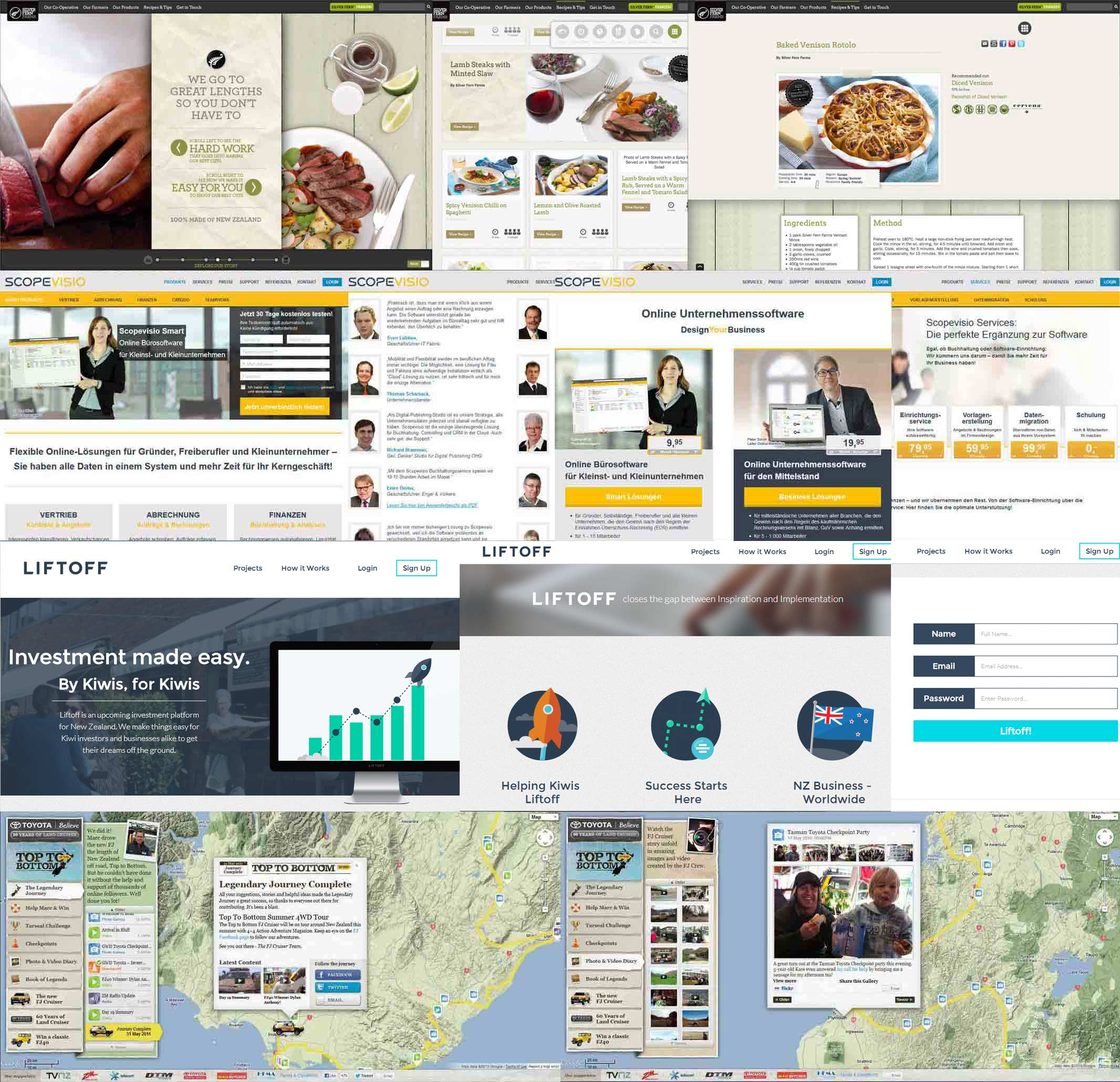
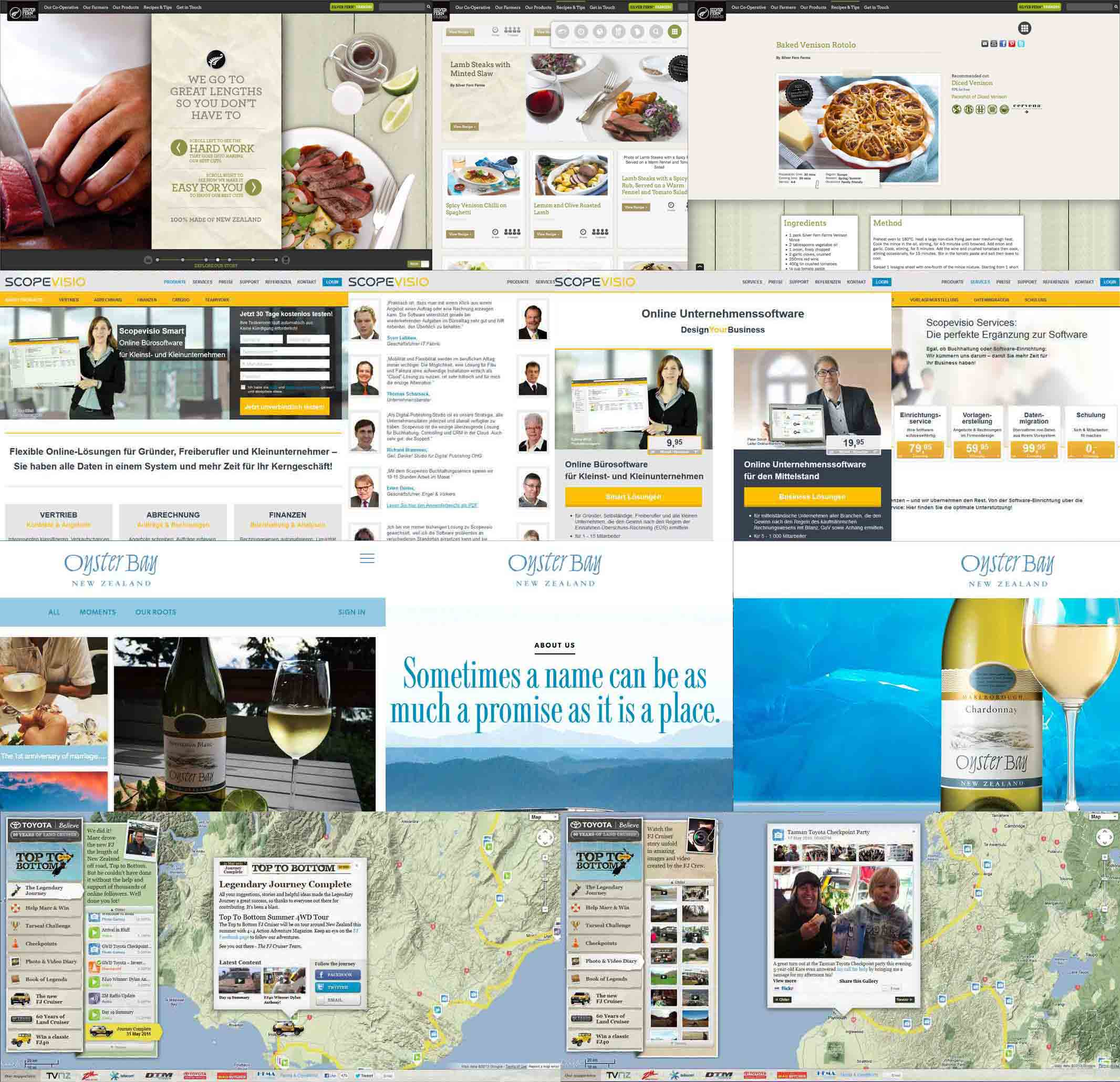
Change text on site boxes, add oysterbay bg, prevent redirect to www in htaccess

Changed region(s): [[0.0, 0.4971, 1.0, 0.7767]]

diff --git a/build/index.min.css b/build/index.min.css
@@ -1,1 +1,1 @@
-.clear{clear:both}.clearfix:after{content:".";height:0;clear:both;display:block;visibility:hidden}.hidden{display:none !important}.boldi{font-weight:bold;white-space:nowrap}html,body,div,img,h1,h2,h3,h4,h5,h6,p,ul,li{margin:0;padding:0;border:0}html,body{width:100%;height:100%}body{font:normal 16px/24px "Source Sans Pro",Helvetica,Arial,sans-serif;text-align:center;color:#515150;background:#EEE7D5}a{word-wrap:break-word;color:#14a1d0}a:focus,a:hover{outline:none}h1{font-size:30px;line-height:44px}h1 a{color:#14A1D0 !important;transition:all 0.5s ease;display:block}h1 a span{text-decoration:underline}h1 a span.big{font-size:38px;position:relative;top:4px;text-decoration:none;text-shadow:1px 1px #000}h1 a:hover{text-shadow:1px 1px #000}h2{font:normal 18px/48px "Reem Kufi";padding:0}h4{font-size:17px;color:#515150}ul,li{list-style:none}p{padding:7px 0;color:#515150}noscript{width:100%;height:20px;position:absolute;top:0;left:0;color:#E22900;text-align:center;padding-top:16px;font:bold 16px/16px "Source Sans Pro",Helvetica,Arial,sans-serif}noscript{font-size:16px;line-height:16px}.inner{width:920px;margin:0 auto;text-align:left;position:relative}.hgroup{float:left;padding:10px 0 0}.heading{font-size:18px}.article{position:relative;z-index:97;background:url(../images/bg-pattern.jpg) repeat center 0;border-top:1px solid #81c7e3;border-bottom:1px solid #81c7e3}.article.work{border-bottom:0}footer{height:100px;text-align:center;line-height:28px;font-size:12px;background:#ede7db url(../images/cloud-windmills.jpg) repeat-x center 100%}footer p{color:white}.header{width:100%;position:relative;top:0;left:0;background:#fff;opacity:0.95;z-index:99;border-bottom:1px solid #EEE7D5}.header .inner{width:850px}.home{background:#d9d9d7 url(../images/fern-leaf.jpg) no-repeat 0 100%;padding:12px 0;border-top:1px solid #81c7e3}.home-left{width:47%;float:left;padding-left:36px}.home-right{width:320px;float:right;min-height:303px;position:relative;right:54px;text-align:center}.home-right p.intro{color:#515150;font-family:"Reem Kufi";font-size:18px;position:relative;right:7px;z-index:5}.home-right p.intro span{display:none}.home-right #gat{opacity:0.333;width:316px;height:274px;position:absolute;top:39px;right:71px;z-index:3;background-position:center middle;background-repeat:no-repeat;transition:opacity 0.666s ease-in-out;-webkit-transition:opacity 0.666s ease-in-out;-moz-transition:opacity 0.666s ease-in-out;-o-transition:opacity 0.666s ease-in-out;-ms-transition:opacity 0.666s ease-in-out}.home-right #gat.active{opacity:0.333}.currentStatus{float:left;display:block;border-radius:7px;margin:20px 0 6px;padding:10px 0 12px;text-align:center !important;border:1px solid #cdcdcd;background:linear-gradient(135deg, #75cdf5, #fff)}.currentStatus h4{padding:0 10px;font-weight:400}h2.acronyms{width:320px;height:266px;display:block;position:absolute;top:36px;right:9px;z-index:5;font-family:"Reem Kufi"}h2.acronyms span{display:none;position:absolute;line-height:32px}.acronimg{width:100%;height:100%;position:absolute;top:0;left:0;display:block;opacity:0.0333;transition:opacity 0.123s ease-in-out;-webkit-transition:opacity 0.123s ease-in-out;-moz-transition:opacity 0.123s ease-in-out;-o-transition:opacity 0.123s ease-in-out;-ms-transition:opacity 0.123s ease-in-out;background-repeat:no-repeat;background-position:center middle;background-size:contain}.a0{top:72px;left:8px;font-size:32px;color:#297ED8}.a1{top:136px;left:66px;font-size:30px;color:#5196E0}.a2{top:62px;left:240px;font-size:31px;color:#258DD6}.a3{top:150px;left:226px;font-size:30px;color:#2399D4}.a4{top:236px;left:72px;font-size:30px;color:#21A0D3}.a5{top:235px;left:10px;font-size:25px;color:#20A6D2}.a6{top:115px;left:151px;font-size:28px;color:#2DABD4}.a7{top:184px;left:252px;font-size:25px;color:#3FB2D8}.a8{top:42px;left:153px;font-size:23px;color:#297ED8}.a9{top:132px;left:5px;font-size:24px;color:#5196E0}.a10{top:200px;left:138px;font-size:26px;color:#4978E2}.a11{top:34px;left:75px;font-size:26px;color:#5196E0}.a12{top:233px;left:158px;font-size:25px;color:#5197E0}.a13{top:3px;left:12px;font-size:24px;color:#20A6D2}.a14{top:70px;left:89px;font-size:24px;color:#4771E1}.a15{top:2px;left:245px;font-size:26px;color:#297ed8}.a16{top:202px;left:12px;font-size:18px;color:#5BBEDE}.a17{top:174px;left:59px;font-size:17px;color:#3FB2D8}.a18{top:101px;left:99px;font-size:22px;color:#5196E0}.a19{top:30px;left:216px;font-size:17px;color:#258DD6}.a20{top:120px;left:248px;font-size:21px;color:#3C45E4}.a21{top:0px;left:88px;font-size:22px;color:#5196E0}.a22{top:36px;left:24px;font-size:20px;color:#4771E1}.a23{top:204px;left:74px;font-size:20px;color:#3C45E4}.a24{top:104px;left:34px;font-size:20px;color:#21A0D3}.a25{top:170px;left:118px;font-size:16px;color:#3C45E4}.a26{top:207px;left:222px;font-size:21px;color:#5BBEDE}.a27{top:166px;left:20px;font-size:19px;color:#3C45E4}.a28{top:148px;left:175px;font-size:32px;color:#2DABD4}.a29{top:4px;left:174px;font-size:27px;color:#2399D4}.a30{top:80px;left:158px;font-size:22px;color:#297ED8}.a31{top:234px;left:252px;font-size:26px;color:#21A0D3}.a32{top:177px;left:201px;font-size:17px;color:#20A6D2}.a33{top:94px;left:224px;font-size:17px;color:#3D49E4}.about{padding:12px 0;background:linear-gradient(135deg, #75cdf5, #fff);border-bottom:0}.about .inner{z-index:99;width:844px}.about h3{padding:10px 0}.about p{width:88%;float:left}.about p.about-title{font-weight:bold;font-style:italic}.about .open p{visibility:visible}.about-bg{width:100%;height:100%;position:absolute;top:0;left:0;background:none;opacity:0.5;display:block}.work{background:#999 url(../images/feather.jpg) no-repeat right top;color:#000;overflow:hidden;z-index:93;padding:16px 0 0;position:relative;z-index:97}.work .inner{z-index:95;text-align:center}.work .inner p{color:white;padding:6px 0 0}.work .inner p.selection{text-align:center;font-family:"Reem Kufi";font-size:20px;text-shadow:1px 1px #515150}.work #siteinfo{font:normal 16px/24px "Reem Kufi";display:block;padding:0 36px;text-align:justify}.work #siteinfo a{color:white;font-style:italic}.work #siteinfo a:hover{color:#515150}strong .work #siteinfo a{font-size:17px}.work ul{color:white;display:block;margin:24px auto 0;font-family:"Reem Kufi"}.work ul li{margin:0;padding:0;width:25%;display:block;float:left;text-align:center;line-height:30px}.work ul li .box{-webkit-border-radius:6px;-moz-border-radius:6px;-ms-border-radius:6px;border-radius:6px;width:169px;height:133px;position:relative;cursor:pointer;overflow:hidden;margin:0 auto 43px;border:1px solid #666}.work ul li .text{text-shadow:1px 1px 1px 1px #000;position:absolute;display:block;top:0;left:0;width:100%;height:100%;z-index:77;line-height:30px;font-size:18px;font-weight:bold}.work ul li .text h3,.work ul li .text h4,.work ul li .text h5{color:white;padding-top:10px;line-height:30px;transition:opacity 0.333s ease-in-out;-webkit-transition:opacity 0.333s ease-in-out;-moz-transition:opacity 0.333s ease-in-out;-o-transition:opacity 0.333s ease-in-out;-ms-transition:opacity 0.333s ease-in-out}.work ul li .text h3{font-size:18px}.work ul li .text h4{font-size:15px;font-style:italic}.work ul li .text h5{font-size:14px}.work ul li span{position:absolute;display:block;top:0;left:0;width:100%;height:100%;-webkit-border-radius:6px;-moz-border-radius:6px;-ms-border-radius:6px;border-radius:6px}.work ul li .layer{background:#333;z-index:44;opacity:0.82}.work ul li .img{z-index:33;background-image:url(../images/thumbs-169x133.jpg)}.work ul li .button{background:url(../images/play.png) no-repeat center;z-index:39}.work ul li .bg1{background:url(../images/diag-left.png) no-repeat 0 0;z-index:55}.work ul li .bg2{background:url(../images/diag-right.png) no-repeat 0 0;z-index:55}.work ul li .info{display:none;font-size:55px}.work ul li.over h3,.work ul li.over h4,.work ul li.over h5{opacity:0}.work ul li.active .img{opacity:0.5}.work ul li.active .button{background:url(../images/pause.png) no-repeat center;opacity:0.55}.work ul li.active.over .button{opacity:1}.work ul li.active.paused .button{background:url(../images/play.png) no-repeat center;z-index:39}.work ul li.active h3,.work ul li.active h4{opacity:0}.work ul li.site4,.work ul li.site8,.work ul li.site12{margin-right:0}.work ul li.sff .img{background-position:0 0}.work ul li.scopevisio .img{background-position:-169px 0}.work ul li.liftoff .img{background-position:-338px 0}.work ul li.toptobottom .img{background-position:-507px 0}.work ul li.coats .img{background-position:-676px 0}.work ul li.mc .img{background-position:-845px 0px}.work ul li.nzso .img{background-position:0 -133px}.work ul li.hito .img{background-position:-169px -133px}.work ul li.roche .img{background-position:-338px -133px}.work ul li.dryitonline .img{background-position:-507px -133px}.work ul li.ffs .img{background-position:-676px -133px}.work ul li.stoptober .img{background-position:-845px -133px}#sitebg{width:1000%;height:100%;overflow:hidden;position:absolute;top:0;left:0;background:url(../images/websites1y515.jpg) repeat center 0;opacity:0.07;z-index:94;display:block}#sitebg.roche-bg{background-image:url(../images/websites2y515.jpg);background-position:left -1030px}#sitebg.ffs-bg{background-image:url(../images/websites3y515.jpg);background-position:left -515px}#sitebg.stoptober-bg{background-image:url(../images/websites3y515.jpg);background-position:center -1545px}#sitebg.mc-bg{background-image:url(../images/websites3y515.jpg);background-position:center -1030px}#sitebg.coats-bg{background-image:url(../images/websites3y515.jpg);background-position:left 0}#sitebg.liftoff-bg{background-image:url(../images/websites1y515.jpg);background-position:center -1030px}#sitebg.sff-bg{background-image:url(../images/websites1y515.jpg);background-position:center 0}#sitebg.scopevisio-bg{background-image:url(../images/websites1y515.jpg);background-position:left -515px}#sitebg.nzso-bg{background-image:url(../images/websites2y515.jpg);background-position:left 0}#sitebg.toptobottom-bg{background-image:url(../images/websites1y515.jpg);background-position:center -1545px}#sitebg.hito-bg{background-image:url(../images/websites2y515.jpg);background-position:center -515px}#sitebg.dryitonline-bg{background-image:url(../images/websites2y515.jpg);background-position:left -1545px}.contact .inner{padding:10px 0 20px}.contact aside{position:relative;z-index:111;width:38%;float:right;text-align:center}.contact aside a{width:61px;height:60px;display:inline-block;background:url(../images/gt-icons.png) no-repeat 0 -16px;margin:3px 3px 0 9px}.contact aside a.pdf{background-position:0 -76px}.contact label{padding-right:9px;font-weight:bold;display:inline-block;line-height:24px;width:112px;text-align:right}.contact ul{position:relative;z-index:99}.contact ul li{padding:10px 0;font-size:14px;position:relative}.contact ul li a{padding-left:20px;color:#14a1d0}.contact ul li span{cursor:pointer;color:#009EE3;text-decoration:underline;line-height:24px}.contact ul li em{display:none;line-height:24px;display:inline-block}.contact ul li.con-so label,.contact ul li.con-so ul{float:left;display:block}.contact ul li.link{padding:0 0 6px 6px}.contact ul li.link a:before{width:16px;height:16px;display:block;position:absolute;content:" ";left:0;top:6px;background:url(../images/gt-icons.png) no-repeat 0 0}.contact ul li.link.linkedin a:before{background-position:-16px 0}.contact ul li.link.github a:before{background-position:-32px 0}.contact ul li.link.stackoverflow a:before{background-position:-48px 0}.contact ul li ul{display:inline-block}.contact ul.deats label{font-family:"Reem Kufi"}.contact .download{width:158px;margin:0 auto;text-align:left}.contact .download .heading{font-family:"Reem Kufi";text-align:center}.contact .contact-bg{width:195px;height:160px;position:absolute;bottom:0;right:5%;opacity:0.3;z-index:98}.nav-wrapper{width:45%;float:right;text-align:center}.nav-wrapper nav{padding:63px 0 0;margin:0 auto 7px;width:300px}.nav-wrapper nav ul{width:300px}.nav-wrapper nav ul li{float:left;display:block;text-transform:uppercase;text-align:center}.nav-wrapper nav ul li a{color:#5a782a;text-decoration:none;cursor:pointer;font:normal 16px/18px "Reem Kufi"}.nav-wrapper nav ul li a:hover{color:#737372;border-bottom:2px solid #737372}.nav-wrapper nav ul li#nav-home{width:68px}.nav-wrapper nav ul li#nav-about{width:74px}.nav-wrapper nav ul li#nav-work{width:68px}.nav-wrapper nav ul li#nav-contact{width:90px}.nav-home #nav-home a,.nav-about #nav-about a,.nav-work #nav-work a,.nav-contact #nav-contact a{color:#14a1d0;border-bottom:2px solid #14a1d0}#nav-slider{width:287px;position:relative}.ui-slider-handle{width:12px;height:21px;position:absolute;top:-20px;background:url(../images/slider.png) no-repeat 0 0;outline:0}@media screen and (max-width: 980px){.inner,fieldset.currentStatus,.home-left{width:100%;float:none;box-sizing:border-box}.inner{padding:0 2.5%;width:100% !important}.nav-wrapper{width:55%}.home-left{width:46%;padding-left:3px}.download{text-align:left}.work ul li{width:33.333%}.contact .inner{padding:10px 2.5% 20px}}@media screen and (max-width: 768px){.header h2{padding-left:0}.header .inner{padding:0}.header .nav-wrapper{width:100%}.header .nav-wrapper nav{padding:12px 0 0;margin-bottom:12px}.inner{text-align:center;padding:0 10px}.hgroup{padding:3px 0 0;float:none}.home{margin:0}.home .inner{padding:0}.home-right{float:none;margin:0 auto;right:0}.home-right p.intro{font-size:16px;padding-top:0}.home-right h2.acronyms{right:0}.home-left{padding:0 12px;width:100%}.work ul li{width:50%}.work #siteinfo{padding:0 12px}.about p{width:100%}.contact aside{float:none;width:100%;right:0}.contact .download{text-align:center;padding-bottom:10px}.contact .download .heading{padding-left:0}.contact ul li{padding:7px 0 !important;text-align:center;line-height:16px;font-size:13px}.contact ul li label{font-size:15px;line-height:17px;padding-right:0;display:block;width:100%;text-align:center}.contact ul li a{padding-left:0}.contact ul li.con-so label,.contact ul li.con-so ul{float:none}.contact ul li.con-so label{padding-bottom:6px}.contact ul li.link{padding-left:0}.contact ul li.link a:before{position:relative;margin:0 auto;top:-4px}.contact ul.deats li span{font-size:15px}.contact .contact-bg{right:0}.sticky-header .header{position:fixed;height:66px}.sticky-header .header h1,.sticky-header .header h2{display:none}.sticky-header .header .nav-wrapper{float:none;background:#fff;height:50px}.sticky-header .header .nav-wrapper nav{margin:15px auto 0;padding:12px 0 0}.sticky-header .home{padding-top:155px}}@media screen and (max-width: 480px){.currentStatus .boldi{text-align:center;padding-right:5px}.home{padding-top:6px}.home-right h2.acronyms{top:30px}.work ul li{width:100%}.work ul li.over h3,.work ul li.over h4,.work ul li.over h5{opacity:0}.work .inner p.selection{font-size:17px}}
+.clear{clear:both}.clearfix:after{content:".";height:0;clear:both;display:block;visibility:hidden}.hidden{display:none !important}.boldi{font-weight:bold;white-space:nowrap}html,body,div,img,h1,h2,h3,h4,h5,h6,p,ul,li{margin:0;padding:0;border:0}html,body{width:100%;height:100%}body{font:normal 16px/24px "Source Sans Pro",Helvetica,Arial,sans-serif;text-align:center;color:#515150;background:#EEE7D5}a{word-wrap:break-word;color:#14a1d0}a:focus,a:hover{outline:none}h1{font-size:30px;line-height:44px}h1 a{color:#14A1D0 !important;transition:all 0.5s ease;display:block}h1 a span{text-decoration:underline}h1 a span.big{font-size:38px;position:relative;top:4px;text-decoration:none;text-shadow:1px 1px #000}h1 a:hover{text-shadow:1px 1px #000}h2{font:normal 18px/48px "Reem Kufi";padding:0}h4{font-size:17px;color:#515150}ul,li{list-style:none}p{padding:7px 0;color:#515150}noscript{width:100%;height:20px;position:absolute;top:0;left:0;color:#E22900;text-align:center;padding-top:16px;font:bold 16px/16px "Source Sans Pro",Helvetica,Arial,sans-serif}noscript{font-size:16px;line-height:16px}.inner{width:920px;margin:0 auto;text-align:left;position:relative}.hgroup{float:left;padding:10px 0 0}.heading{font-size:18px}.article{position:relative;z-index:97;background:url(../images/bg-pattern.jpg) repeat center 0;border-top:1px solid #81c7e3;border-bottom:1px solid #81c7e3}.article.work{border-bottom:0}footer{height:100px;text-align:center;line-height:28px;font-size:12px;background:#ede7db url(../images/cloud-windmills.jpg) repeat-x center 100%}footer p{color:white}.header{width:100%;position:relative;top:0;left:0;background:#fff;opacity:0.95;z-index:99;border-bottom:1px solid #EEE7D5}.header .inner{width:850px}.home{background:#d9d9d7 url(../images/fern-leaf.jpg) no-repeat 0 100%;padding:12px 0;border-top:1px solid #81c7e3}.home-left{width:47%;float:left;padding-left:36px}.home-right{width:320px;float:right;min-height:303px;position:relative;right:54px;text-align:center}.home-right p.intro{color:#515150;font-family:"Reem Kufi";font-size:18px;position:relative;right:7px;z-index:5}.home-right p.intro span{display:none}.home-right #gat{opacity:0.333;width:316px;height:274px;position:absolute;top:39px;right:71px;z-index:3;background-position:center middle;background-repeat:no-repeat;transition:opacity 0.666s ease-in-out;-webkit-transition:opacity 0.666s ease-in-out;-moz-transition:opacity 0.666s ease-in-out;-o-transition:opacity 0.666s ease-in-out;-ms-transition:opacity 0.666s ease-in-out}.home-right #gat.active{opacity:0.333}.currentStatus{float:left;display:block;border-radius:7px;margin:20px 0 6px;padding:10px 0 12px;text-align:center !important;border:1px solid #cdcdcd;background:linear-gradient(135deg, #75cdf5, #fff)}.currentStatus h4{padding:0 10px;font-weight:400}h2.acronyms{width:320px;height:266px;display:block;position:absolute;top:36px;right:9px;z-index:5;font-family:"Reem Kufi"}h2.acronyms span{display:none;position:absolute;line-height:32px}.acronimg{width:100%;height:100%;position:absolute;top:0;left:0;display:block;opacity:0.0333;transition:opacity 0.123s ease-in-out;-webkit-transition:opacity 0.123s ease-in-out;-moz-transition:opacity 0.123s ease-in-out;-o-transition:opacity 0.123s ease-in-out;-ms-transition:opacity 0.123s ease-in-out;background-repeat:no-repeat;background-position:center middle;background-size:contain}.a0{top:72px;left:8px;font-size:32px;color:#297ED8}.a1{top:136px;left:66px;font-size:30px;color:#5196E0}.a2{top:62px;left:240px;font-size:31px;color:#258DD6}.a3{top:150px;left:226px;font-size:30px;color:#2399D4}.a4{top:236px;left:72px;font-size:30px;color:#21A0D3}.a5{top:235px;left:10px;font-size:25px;color:#20A6D2}.a6{top:115px;left:151px;font-size:28px;color:#2DABD4}.a7{top:184px;left:252px;font-size:25px;color:#3FB2D8}.a8{top:42px;left:153px;font-size:23px;color:#297ED8}.a9{top:132px;left:5px;font-size:24px;color:#5196E0}.a10{top:200px;left:138px;font-size:26px;color:#4978E2}.a11{top:34px;left:75px;font-size:26px;color:#5196E0}.a12{top:233px;left:158px;font-size:25px;color:#5197E0}.a13{top:3px;left:12px;font-size:24px;color:#20A6D2}.a14{top:70px;left:89px;font-size:24px;color:#4771E1}.a15{top:2px;left:245px;font-size:26px;color:#297ed8}.a16{top:202px;left:12px;font-size:18px;color:#5BBEDE}.a17{top:174px;left:59px;font-size:17px;color:#3FB2D8}.a18{top:101px;left:99px;font-size:22px;color:#5196E0}.a19{top:30px;left:216px;font-size:17px;color:#258DD6}.a20{top:120px;left:248px;font-size:21px;color:#3C45E4}.a21{top:0px;left:88px;font-size:22px;color:#5196E0}.a22{top:36px;left:24px;font-size:20px;color:#4771E1}.a23{top:204px;left:74px;font-size:20px;color:#3C45E4}.a24{top:104px;left:34px;font-size:20px;color:#21A0D3}.a25{top:170px;left:118px;font-size:16px;color:#3C45E4}.a26{top:207px;left:222px;font-size:21px;color:#5BBEDE}.a27{top:166px;left:20px;font-size:19px;color:#3C45E4}.a28{top:148px;left:175px;font-size:32px;color:#2DABD4}.a29{top:4px;left:174px;font-size:27px;color:#2399D4}.a30{top:80px;left:158px;font-size:22px;color:#297ED8}.a31{top:234px;left:252px;font-size:26px;color:#21A0D3}.a32{top:177px;left:201px;font-size:17px;color:#20A6D2}.a33{top:94px;left:224px;font-size:17px;color:#3D49E4}.about{padding:12px 0;background:linear-gradient(135deg, #75cdf5, #fff);border-bottom:0}.about .inner{z-index:99;width:844px}.about h3{padding:10px 0}.about p{width:88%;float:left}.about p.about-title{font-weight:bold;font-style:italic}.about .open p{visibility:visible}.about-bg{width:100%;height:100%;position:absolute;top:0;left:0;background:none;opacity:0.5;display:block}.work{background:#999 url(../images/feather.jpg) no-repeat right top;color:#000;overflow:hidden;z-index:93;padding:16px 0 0;position:relative;z-index:97}.work .inner{z-index:95;text-align:center}.work .inner p{color:white;padding:6px 0 0}.work .inner p.selection{text-align:center;font-family:"Reem Kufi";font-size:20px;text-shadow:1px 1px #515150}.work .inner p:last-child{padding-bottom:6px}.work #siteinfo{font:normal 16px/24px "Reem Kufi";display:block;padding:0 36px;text-align:justify}.work #siteinfo a{color:white;font-style:italic}.work #siteinfo a:hover{color:#515150}strong .work #siteinfo a{font-size:17px}.work ul{color:white;display:block;margin:24px auto 0;font-family:"Reem Kufi"}.work ul li{margin:0;padding:0;width:25%;display:block;float:left;text-align:center;line-height:30px}.work ul li .box{-webkit-border-radius:6px;-moz-border-radius:6px;-ms-border-radius:6px;border-radius:6px;width:169px;height:133px;position:relative;cursor:pointer;overflow:hidden;margin:0 auto 43px;border:1px solid #666}.work ul li .text{text-shadow:1px 1px 1px 1px #000;position:absolute;display:block;top:0;left:0;width:100%;height:100%;z-index:77;line-height:30px;font-size:18px;font-weight:bold}.work ul li .text h3,.work ul li .text h4,.work ul li .text h5{color:white;padding-top:10px;line-height:30px;transition:opacity 0.333s ease-in-out;-webkit-transition:opacity 0.333s ease-in-out;-moz-transition:opacity 0.333s ease-in-out;-o-transition:opacity 0.333s ease-in-out;-ms-transition:opacity 0.333s ease-in-out}.work ul li .text h3{font-size:18px}.work ul li .text h4{font-size:15px;font-style:italic}.work ul li .text h5{font-size:14px}.work ul li span{position:absolute;display:block;top:0;left:0;width:100%;height:100%;-webkit-border-radius:6px;-moz-border-radius:6px;-ms-border-radius:6px;border-radius:6px}.work ul li .layer{background:#333;z-index:44;opacity:0.82}.work ul li .img{z-index:33;background-image:url(../images/thumbs-169x133.jpg)}.work ul li .button{background:url(../images/play.png) no-repeat center;z-index:39}.work ul li .bg1{background:url(../images/diag-left.png) no-repeat 0 0;z-index:55}.work ul li .bg2{background:url(../images/diag-right.png) no-repeat 0 0;z-index:55}.work ul li .info{display:none;font-size:55px}.work ul li.over h3,.work ul li.over h4,.work ul li.over h5{opacity:0}.work ul li.active .img{opacity:0.5}.work ul li.active .button{background:url(../images/pause.png) no-repeat center;opacity:0.55}.work ul li.active.over .button{opacity:1}.work ul li.active.paused .button{background:url(../images/play.png) no-repeat center;z-index:39}.work ul li.active h3,.work ul li.active h4{opacity:0}.work ul li.site4,.work ul li.site8,.work ul li.site12{margin-right:0}.work ul li.sff .img{background-position:0 0}.work ul li.scopevisio .img{background-position:-169px 0}.work ul li.liftoff .img{background-position:-338px 0}.work ul li.toptobottom .img{background-position:-507px 0}.work ul li.coats .img{background-position:-676px 0}.work ul li.mc .img{background-position:-845px 0px}.work ul li.nzso .img{background-position:0 -133px}.work ul li.hito .img{background-position:-169px -133px}.work ul li.roche .img{background-position:-338px -133px}.work ul li.dryitonline .img{background-position:-507px -133px}.work ul li.ffs .img{background-position:-676px -133px}.work ul li.stoptober .img{background-position:-845px -133px}#sitebg{width:1000%;height:100%;overflow:hidden;position:absolute;top:0;left:0;background:url(../images/websites1y515.jpg) repeat center 0;opacity:0.07;z-index:94;display:block}#sitebg.roche-bg{background-image:url(../images/websites2y515.jpg);background-position:left -1030px}#sitebg.ffs-bg{background-image:url(../images/websites3y515.jpg);background-position:left -515px}#sitebg.stoptober-bg{background-image:url(../images/websites3y515.jpg);background-position:center -1545px}#sitebg.mc-bg{background-image:url(../images/websites3y515.jpg);background-position:center -1030px}#sitebg.coats-bg{background-image:url(../images/websites3y515.jpg);background-position:left 0}#sitebg.oysterbay-bg{background-image:url(../images/websites1y515.jpg);background-position:center -1030px}#sitebg.sff-bg{background-image:url(../images/websites1y515.jpg);background-position:center 0}#sitebg.scopevisio-bg{background-image:url(../images/websites1y515.jpg);background-position:left -515px}#sitebg.nzso-bg{background-image:url(../images/websites2y515.jpg);background-position:left 0}#sitebg.toptobottom-bg{background-image:url(../images/websites1y515.jpg);background-position:center -1545px}#sitebg.hito-bg{background-image:url(../images/websites2y515.jpg);background-position:center -515px}#sitebg.dryitonline-bg{background-image:url(../images/websites2y515.jpg);background-position:left -1545px}.contact .inner{padding:10px 0 20px}.contact aside{position:relative;z-index:111;width:38%;float:right;text-align:center}.contact aside a{width:61px;height:60px;display:inline-block;background:url(../images/gt-icons.png) no-repeat 0 -16px;margin:3px 3px 0 9px}.contact aside a.pdf{background-position:0 -76px}.contact label{padding-right:9px;font-weight:bold;display:inline-block;line-height:24px;width:112px;text-align:right}.contact ul{position:relative;z-index:99}.contact ul li{padding:10px 0;font-size:14px;position:relative}.contact ul li a{padding-left:20px;color:#14a1d0}.contact ul li span{cursor:pointer;color:#009EE3;text-decoration:underline;line-height:24px}.contact ul li em{display:none;line-height:24px;display:inline-block}.contact ul li.con-so label,.contact ul li.con-so ul{float:left;display:block}.contact ul li.link{padding:0 0 6px 6px}.contact ul li.link a:before{width:16px;height:16px;display:block;position:absolute;content:" ";left:0;top:6px;background:url(../images/gt-icons.png) no-repeat 0 0}.contact ul li.link.linkedin a:before{background-position:-16px 0}.contact ul li.link.github a:before{background-position:-32px 0}.contact ul li.link.stackoverflow a:before{background-position:-48px 0}.contact ul li ul{display:inline-block}.contact ul.deats label{font-family:"Reem Kufi"}.contact .download{width:158px;margin:0 auto;text-align:left}.contact .download .heading{font-family:"Reem Kufi";text-align:center}.contact .contact-bg{width:195px;height:160px;position:absolute;bottom:0;right:5%;opacity:0.3;z-index:98}.nav-wrapper{width:45%;float:right;text-align:center}.nav-wrapper nav{padding:63px 0 0;margin:0 auto 7px;width:300px}.nav-wrapper nav ul{width:300px}.nav-wrapper nav ul li{float:left;display:block;text-transform:uppercase;text-align:center}.nav-wrapper nav ul li a{color:#5a782a;text-decoration:none;cursor:pointer;font:normal 16px/18px "Reem Kufi"}.nav-wrapper nav ul li a:hover{color:#737372;border-bottom:2px solid #737372}.nav-wrapper nav ul li#nav-home{width:68px}.nav-wrapper nav ul li#nav-about{width:74px}.nav-wrapper nav ul li#nav-work{width:68px}.nav-wrapper nav ul li#nav-contact{width:90px}.nav-home #nav-home a,.nav-about #nav-about a,.nav-work #nav-work a,.nav-contact #nav-contact a{color:#14a1d0;border-bottom:2px solid #14a1d0}#nav-slider{width:287px;position:relative}.ui-slider-handle{width:12px;height:21px;position:absolute;top:-20px;background:url(../images/slider.png) no-repeat 0 0;outline:0}@media screen and (max-width: 980px){.inner,fieldset.currentStatus,.home-left{width:100%;float:none;box-sizing:border-box}.inner{padding:0 2.5%;width:100% !important}.nav-wrapper{width:55%}.home-left{width:46%;padding-left:3px}.download{text-align:left}.work ul li{width:33.333%}.contact .inner{padding:10px 2.5% 20px}}@media screen and (max-width: 768px){.header h2{padding-left:0}.header .inner{padding:0}.header .nav-wrapper{width:100%}.header .nav-wrapper nav{padding:12px 0 0;margin-bottom:12px}.inner{text-align:center;padding:0 10px}.hgroup{padding:3px 0 0;float:none}.home{margin:0}.home .inner{padding:0}.home-right{float:none;margin:0 auto;right:0}.home-right p.intro{font-size:16px;padding-top:0}.home-right h2.acronyms{right:0}.home-left{padding:0 12px;width:100%}.work ul li{width:50%}.work #siteinfo{padding:0 12px}.about p{width:100%}.contact aside{float:none;width:100%;right:0}.contact .download{text-align:center;padding-bottom:10px}.contact .download .heading{padding-left:0}.contact ul li{padding:7px 0 !important;text-align:center;line-height:16px;font-size:13px}.contact ul li label{font-size:15px;line-height:17px;padding-right:0;display:block;width:100%;text-align:center}.contact ul li a{padding-left:0}.contact ul li.con-so label,.contact ul li.con-so ul{float:none}.contact ul li.con-so label{padding-bottom:6px}.contact ul li.link{padding-left:0}.contact ul li.link a:before{position:relative;margin:0 auto;top:-4px}.contact ul.deats li span{font-size:15px}.contact .contact-bg{right:0}.sticky-header .header{position:fixed;height:66px}.sticky-header .header h1,.sticky-header .header h2{display:none}.sticky-header .header .nav-wrapper{float:none;background:#fff;height:50px}.sticky-header .header .nav-wrapper nav{margin:15px auto 0;padding:12px 0 0}.sticky-header .home{padding-top:155px}}@media screen and (max-width: 480px){.currentStatus .boldi{text-align:center;padding-right:5px}.home{padding-top:6px}.home-right h2.acronyms{top:30px}.work ul li{width:100%}.work ul li.over h3,.work ul li.over h4,.work ul li.over h5{opacity:0}.work .inner p.selection{font-size:17px}}

diff --git a/scss/work.scss b/scss/work.scss
@@ -18,6 +18,9 @@
 				font-size: 20px;
 				@include text-shadow($dark);
 			}
+			&:last-child{
+				padding-bottom: 6px;
+			}
 		}
 	}
 	#siteinfo{
@@ -215,7 +218,11 @@
 		background-image:url(../images/websites3y515.jpg);
 		background-position: left 0;
 	}
-	&.liftoff-bg{
+	/*&.liftoff-bg{
+		background-image:url(../images/websites1y515.jpg);
+		background-position: center -1030px;
+	}*/
+	&.oysterbay-bg{
 		background-image:url(../images/websites1y515.jpg);
 		background-position: center -1030px;
 	}

diff --git a/index.php b/index.php
@@ -70,54 +70,61 @@
 			<div id="sitebg" class="hidden"></div>
 		</div>
 		<div class="inner">
-			<p class="selection">Some of my work from the past few years:</p>
+			<p class="selection">A reverse chronology of work from the past few years:</p>
 			<div id="siteinfo"></div>
 			<ul class="clearfix">
+				<li class="oysterbay">
+					<div class="box">
+						<div class="text"><h3>Oyster Bay Wines</h3><h3>Concrete5 / Gulp</h3><h4>Parallax / SASS</h4></div>
+						<span class="layer"></span><span class="img"></span><span class="button"></span><span class="bg1"></span><span class="bg2"></span>
+						<div class="info"><strong><a class="siteTitle" href="//www.roche.co.nz" target="_blank" title="Visit Website">http://oysterbaywines.com/</a></strong> - .</div>
+					</div>
+				</li>
 				<li class="site1 roche">
 					<div class="box">
-						<div class="text"><h3>Roche</h3><h3>Concrete5</h3><h4>SASS / jQuery</h4></div>
+						<div class="text"><h3>Roche NZ</h3><h3>Concrete5 / Grunt</h3><h4>3 SASS theme builds</h4></div>
 						<span class="layer"></span><span class="img"></span><span class="button"></span><span class="bg1"></span><span class="bg2"></span>
 						<div class="info"><strong><a class="siteTitle" href="//www.roche.co.nz" target="_blank" title="Visit Website">www.roche.co.nz</a></strong> - From the dawn of 2016 I've been working with one of Auckland's top Digital Agencies: <a target="_blank" href="//www.spitfire.co.nz">Spitfire</a> to deliver a suite of sites for Swiss pharmaceuticals: <a href="//www.roche.co.nz" target="_blank">roche.co.nz</a>, <a href="//www.cancerinfo.co.nz" target="_blank">cancerinfo.co.nz</a> and <a href="//www.roche-plus.co.nz" target="_blank">roche-plus.co.nz</a>. These sites were crafted in PHP CMS Concrete5 with custom-made modules and templates. During my time at <a target="_blank" href="//www.spitfire.co.nz">Spitfire</a> I've also had the opportunity to do extensive work on one of New Zealand's most popular recipe websites: <a target="_blank" href="//www.chelsea.co.nz">Chelsea Sugar NZ</a> and their Aussie affiliates <a target="_blank" href="//www.csrsugar.com.au">CSR Sugar Australia</a>.</div>
 					</div>
 				</li>
 				<li class="site2 ffs">
 					<div class="box">
-						<div class="text"><h4>Fonterra Foodservice</h4><h3>Bolt CMS / Twig</h3><h4>Bootstrap 3 / jQuery</h4></div>
+						<div class="text"><h4>Fonterra Foodservice</h4><h3>Bolt CMS / Twig</h3><h4>Bootstrap / LESS / Git</h4></div>
 						<span class="layer"></span><span class="img"></span><span class="button"></span><span class="bg1"></span><span class="bg2"></span>
 						<div class="info"><strong><a class="siteTitle" href="//www.fonterrafoodservice.co.nz" target="_blank" title="Visit Website">www.fonterrafoodservice.co.nz</a></strong> - In late 2015 I collaborated with <a target="_blank" href="//www.satellitemedia.co.nz/">Satellite Media</a> to build Fonterra's new Foodservice website. It's' built with a sophisticated CMS called <a href="//bolt.cm/" target="_blank">Bolt</a> and contains some delicious recipes!. During my time at <a target="_blank" href="//www.satellitemedia.co.nz/">Satellite</a> I also had the opportunity to work on <a target="_blank" href="//www.betterliving.co.nz/">www.betterliving.co.nz</a></div>
 					</div>
 				</li>
 				<li class="site3 stoptober">
 					<div class="box">
-						<div class="text"><h3>Stoptober NZ</h3><h4>Stylus / JADE / Mongo</h4><h3>Node.js / Express</h3></div>
+						<div class="text"><h4>Stoptober NZ</h4><h3>Node.js / Express</h3><h4>Stylus / JADE / Mongo</h4></div>
 						<span class="layer"></span><span class="img"></span><span class="button"></span><span class="bg1"></span><span class="bg2"></span>
 						<div class="info"><strong><a class="siteTitle" href="//www.stoptober.nz" target="_blank" title="Visit Website">www.stoptober.nz</a></strong> - Stoptober is an annual campaign to help people stop smoking, and in August 2015 after quitting smoking myself a month earlier I built the web application that runs the 2015 campaign. Working with <a target="_blank" href="//www.touchcast.co.nz/">Touchcast</a>, I built both front and back end using the most cutting-edge web technologies: Node, Express 4, JADE, Stylus, and Mongoose with MongoDB.</div>
 					</div>
 				</li>
 				<li class="site4 mc">
 					<div class="box">
-						<div class="text"><h4>Meredith Connell</h4><h3>Drupal / LESS</h3><h4>jQuery / Masonry</h4></div>
+						<div class="text"><h4>Meredith Connell</h4><h3>Drupal / LESS</h3><h4>Front-End / Isotope</h4></div>
 						<span class="layer"></span><span class="img"></span><span class="button"></span><span class="bg1"></span><span class="bg2"></span>
 						<div class="info"><strong><a class="siteTitle" href="//www.mc.co.nz" target="_blank" title="Visit Website">www.mc.co.nz</a></strong> - Early in 2015 I built the front end for NZ law firm Meredith Connell's new Drupal website with the talented folks at <a href="//www.insightcreative.co.nz" target="_blank">Insight&nbsp;Creative</a>. Although the back-end developer was in Wellington and I was working in Auckland, we collaborated daily and were able to deliver the polished product one week ahead of schedule using modern technologies such as git, beanstalk and of course the good old telephone.</div>
 					</div>
 				</li>
 				<li class="site5 coats">
 					<div class="box">
-						<div class="text"><h3>Coats Design</h3><h4>Wordpress / SASS</h4><h4>Bootstrap 3 / jQuery</h4></div>
+						<div class="text"><h3>Coats Design</h3><h4>Wordpress / SASS</h4><h4>Bootstrap 3 / Masonry</h4></div>
 						<span class="layer"></span><span class="img"></span><span class="button"></span><span class="bg1"></span><span class="bg2"></span>
 						<div class="info"><strong><a class="siteTitle" href="//coatsdesign.co.nz/" target="_blank" title="Visit Website">www.coatsdesign.co.nz</a></strong> - Early in 2014, I worked with <a href="//www.tinsoldier.co.nz">Tin&nbsp;Soldier</a> to create a custom Wordpress site for Coats Design. For this I built a responsive HTML5 theme with Bootstrap 3, compiled plenty of CSS using SASS, and fine-tuned the UI by extending Javascript with jQuery and Isotope/Masonry.</div>
 					</div>
 				</li>
-				<li class="site6 liftoff">
+				<!--<li class="site6 liftoff">
 					<div class="box">
 						<div class="text"><h3>Lift Off</h3><h5>HTML5 / CSS3 / jQuery</h5><h4>Git / JIRA / Bitbucket</h4></div>
 						<span class="layer"></span><span class="img"></span><span class="button"></span><span class="bg1"></span><span class="bg2"></span>
 						<div class="info"><strong><a class="siteTitle" href="//liftoff.co.nz/" target="_blank" title="Visit Website">www.liftoff.co.nz</a></strong> - In March and April of 2014 I worked with <a href="//idesignmedia.co.nz/" target="_blank">iDesign&nbsp;Media</a> to create one of New Zealand's first Equity Crowdfunding platforms. My role in this project was to produce the majority of the front-end code and integrate this into iDesign's custom framework. During this process, I worked mostly from home and collaborated with iDesign using Git.</div>
 					</div>
-				</li>
+				</li>-->
 				<li class="site7 sff">
 					<div class="box">
-						<div class="text"><h3>Silver Fern Farms</h3><h4>Mobile Front-End</h4><h4>Silverstripe / jQuery</h4></div>
+						<div class="text"><h3>Silver Fern Farms</h3><h4>Silverstripe / SASS</h4><h4>Mobile Front-End</h4></div>
 						<span class="layer"></span><span class="img"></span><span class="button"></span><span class="bg1"></span><span class="bg2"></span>
 						<div class="info"><strong><a class="siteTitle" href="//www.silverfernfarms.co.nz" target="_blank" title="Visit Website">www.silverfernfarms.co.nz</a></strong> - During a 3 month contract with <a href="//www.colensobbdo.co.nz" target="_blank">Colenso&nbsp;BBDO</a>, I skinned the mobile version of this website as well as working on several small campaigns and projects for clients such as BNZ (<a href="//www.powerofadollarchallenge.co.nz/" target="_blank">Power&nbsp;of&nbsp;a&nbsp;Dollar</a> campaign), Burger&nbsp;King (Outlaw&nbsp;campaign), Fonterra (iPad app for Memphis&nbsp;Meltdown), Frucor (migration of <a href="//www.v.co.nz" target="_blank">V&nbsp;website</a>) and Volkswagen (email newsletter templates).</div>
 					</div>
@@ -131,21 +138,21 @@
 				</li>
 				<li class="site9 nzso">
 					<div class="box">
-						<div class="text"><h3>NZSO</h3><h4>HTML5 / Wordpress</h4><h4>Front-End / jQuery</h4></div>
+						<div class="text"><h3>NZSO</h3><h4>Wordpress</h4><h4>Front-End / Git</h4></div>
 						<span class="layer"></span><span class="img"></span><span class="button"></span><span class="bg1"></span><span class="bg2"></span>
 						<div class="info"><strong><a class="siteTitle" href="//www.nzso.co.nz" target="_blank" title="Visit Website">www.nzso.co.nz</a></strong> - The final site I worked on with <a href="//www.thechurch.co.nz" target="_blank">The&nbsp;Church</a> and the last site I built which was non-responsive, I wrote the entire front-end in the form of a Wordpress theme for the New Zealand Symphony Orchestra website. During my time at The&nbsp;Church I also built the following sites: <a href="//www.ngatitoa.iwi.nz" target="_blank">Ngati&nbsp;Toa Rangatira</a>, <a href="//www.toiwhakaari.ac.nz" target="_blank">Toi&nbsp;Whakaari</a>, <a href="//www.fingertapps.com" target="_blank">Fingertapps</a> and a trade site for <a href="//www.rjslicorice.co.nz" target="_blank">RJ's&nbsp;Licorice</a>.</div>
 					</div>
 				</li>
 				<li class="site10 toptobottom">
 					<div class="box">
-						<div class="text"><h3>Toyota</h3><h4>Google Maps API v3</h4><h4>Wordpress / jQuery</h4></div>
+						<div class="text"><h3>Toyota</h3><h4>Google Maps API v3</h4><h4>Wordpress theme build</h4></div>
 						<span class="layer"></span><span class="img"></span><span class="button"></span><span class="bg1"></span><span class="bg2"></span>
 						<div class="info"><strong><a class="siteTitle" href="//www.toptobottom.co.nz" target="_blank" title="Visit Website">www.toptobottom.co.nz</a><em> (No longer online)</em></strong> - A mashup of Wordpress and Google&nbsp;Maps, designed by Saatchi&nbsp;&amp;&nbsp;Saatchi for a Toyota campaign that involved Marc&nbsp;Ellis driving the length of New&nbsp;Zealand in a 60 year old FJ&nbsp;Cruiser. In 2010 <a href="//www.thechurch.co.nz" target="_blank">The&nbsp;Church</a> were approached by Aim Proximity who had picked up this job but hadn't the manpower to meet the strict deadline. I eagerly rose to the challenge and single-handedly wrote 90% of the site during the summer holidays then passed it back to the agency to complete the finishing touches and meet the deadline to coincide with the TV, radio and print campaigns.</div>
 					</div>
 				</li>
 				<li class="site11 hito">
 					<div class="box">
-						<div class="text"><h3>HITO</h3><h3>Wordpress</h3><h4>Theme Build</h4></div>
+						<div class="text"><h3>HITO</h3><h3>Wordpress</h3><h4>Front-End / Cufon</h4></div>
 						<span class="layer"></span><span class="img"></span><span class="button"></span><span class="bg1"></span><span class="bg2"></span>
 						<div class="info"><strong><a class="siteTitle" href="//www.hito.org.nz" target="_blank" title="Visit Website">www.hito.org.nz</a></strong> - Working with amazing designers at <a href="//www.thechurch.co.nz" target="_blank">The&nbsp;Church</a> in Wellington, I produced a custom Wordpress theme for the NZ Hairdressing Industry Training Organisation. I worked closely with the client on a daily basis through the whole process and helped transform into web their many ideas and desires. I was the sole devoloper working on this project, writing the front-end and server-side code.</div>
 					</div>
@@ -158,6 +165,7 @@
 					</div>
 				</li>
 			</ul>
+			<p><em>All sites above contain PHP, HTML, CSS and Javascript&nbsp;with&nbsp;jQuery.</em></p>
 		</div>
 	</article>
 	<article class="about article">
